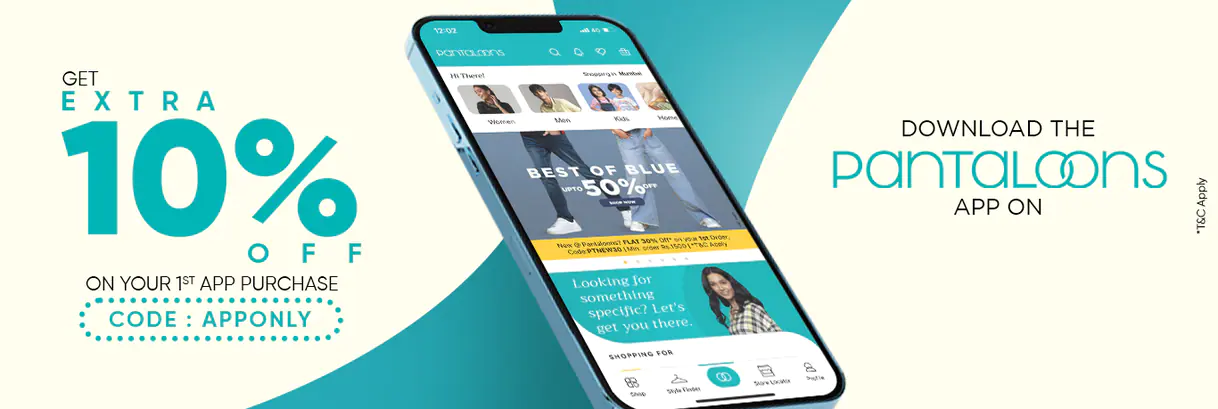
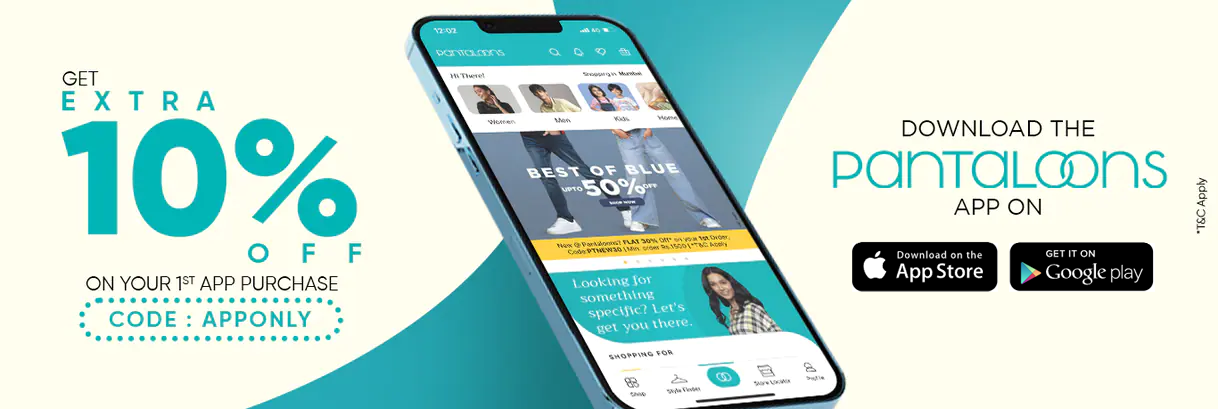
15/07/24

Changed region(s): [[0.6864, 0.5868, 0.9672, 0.7335]]

diff --git a/src/component/giftcard.css b/src/component/giftcard.css
@@ -1,0 +1,58 @@
+.giftcard-content-section{
+    background-image: url("../image/leaf-2.png");
+    background-repeat: no-repeat;
+    background-size: cover;
+    background-position: center;
+    border-radius: 10px;
+}
+.giftcard .giftcard-content-section {
+    /* background: #d2fdff; */
+    padding:  0 100px;
+    display: flex;
+    align-items: center;
+    flex-direction: row-reverse;
+    border-radius: 20px;
+    box-shadow: rgba(0, 0, 0, 0.05) 0px 0px 0px 1px;
+}
+.giftcard .greencard-content img{
+    border-radius: 10px;
+}
+.giftcard .greencard-content h4.heading {
+    font-family: Trirong, serif;
+    font-style: italic;
+    text-transform: capitalize;
+    font-size: 24px;
+    font-weight: 400;
+}
+.giftcard .giftcard-content-section>* {
+    width: 50%;
+}
+.giftcard .giftcard-content-section .greencard-content.one {
+    text-align: center;
+    position: relative;
+    z-index: 1;
+}
+.giftcard .giftcard-content-section .greencard-content{
+    padding: 60px 0;
+}
+.giftcard .giftcard-content-section .greencard-content.two {
+    padding: 60px 80px;
+}
+.giftcard .greencard-content.two a.button {
+    color: #00b0b5;
+    font-size: 14px;
+    letter-spacing: 2.2px;
+}
+.giftcard .greencard-content.one:after {
+    content: '';
+    position: absolute;
+    width: 520px;
+    height: 300px;
+    background: #fff;
+    bottom: 0;
+    left: 50%;
+    top: auto;
+    transform: translateX(-50%);
+    border-radius: 120px 120px 0 0;
+    z-index: -1;
+}

diff --git a/src/component/Footer.js b/src/component/Footer.js
@@ -1,7 +1,12 @@
 import React from "react";
 import "./footer.css";
 import paymentimage from "../image/payment.png";
+import playstore from "../image/google-play.svg"
+import applestore from "../image/apple.svg";
+import { Link } from "react-router-dom";
 const Footer = () => {
+    const palyStoreLink = "https://play.google.com/store/apps/details?id=com.pantaloons&source=footer&pli=1";
+    const appleStoreLink = "https://apps.apple.com/in/app/pantaloons-online-shopping-app/id1599439483?source=footer";
   return (
     <footer className="pt-4 pb-3">
       <div className="container pt-5 pb-5">
@@ -100,6 +105,13 @@ const Footer = () => {
                 </ul>
             </div>
         </div>
+      </div>
+      <div className="dowload-app footer-category pb-3 mb-3">
+      <h4 className="text-uppercase fw-bolder mb-3 text-center">experience pantaloons app</h4>
+      <div className="dowload-image text-center">
+        <Link to={palyStoreLink} target="_blank"><img src={playstore} className="ms-2 me-2" alt="plas-tore"/></Link>
+        <Link to={appleStoreLink} target="_blank"><img src={applestore} className="ms-2 me-2" alt="apple-store"/></Link>
+      </div> 
       </div>
       <div className="footer-bottom pt-3">
         <div className="footer-bottom-content container">

diff --git a/src/component/Greencard.js b/src/component/Greencard.js
@@ -1,0 +1,32 @@
+import React from "react";
+import './greencard.css'
+import greencard from '../image/greencard.png'
+const Greencard = () => {
+  return (
+    <div className="container greencard mt-5 mb-5">
+      <div className="greencard-content-section">
+        <div className="greencard-content one">
+          <h4 className="heading pb-5 mb-0">
+            Get Green Listed with our Greencard <br/>loyalty program
+          </h4>
+          <img src={greencard} className="green-card-image" alt="green-card" />
+        </div>
+        <div className="greencard-content two">
+          <h4 className="heading mb-3">
+            Style your change with India’s <br/> most rewarding program
+          </h4>
+          <p className="description mb-3">
+            Members of the loyalty program will enjoy unique benefits, including
+            special offers, additional discounts, bonus points and customized
+            product information
+          </p>
+          <a href="#" className="button mb-4 text-uppercase fw-bolder text-decoration-none">
+            read now
+          </a>
+        </div>
+      </div>
+    </div>
+  );
+};
+
+export default Greencard;

diff --git a/src/component/Giftcard.js b/src/component/Giftcard.js
@@ -1,0 +1,35 @@
+import React from "react";
+import "./giftcard.css";
+import giftcard from "../image/giftcard.png";
+const Giftcard = () => {
+  const giftCardImage = "gift-card-image";
+  return (
+    <div className="container giftcard mt-5 mb-5">
+      <div className="giftcard-content-section">
+        <div className="greencard-content one">
+          <img src={giftcard} className="green-card-image" alt="green-card" />
+          <h4 className="heading pt-5 mb-0">
+            Pantaloons Gift Card <br />
+            With Our loyalty program
+          </h4>
+        </div>
+        <div className="greencard-content two">
+          <h4 className="heading mb-3">
+            Style your change with India’s <br /> most rewarding program
+          </h4>
+          <p className="description mb-3">
+            Give your loved ones the joy to choose
+          </p>
+          <a
+            href="#"
+            className="button mb-4 text-uppercase fw-bolder text-decoration-none"
+          >
+            explore now
+          </a>
+        </div>
+      </div>
+    </div>
+  );
+};
+
+export default Giftcard;

diff --git a/src/component/cardcollection.css b/src/component/cardcollection.css
@@ -1,9 +1,23 @@
 .card_collection_section{
-    background: url("../image/Desktop-Background.png");
-    background-repeat: no-repeat;
+    /* background: url("../image/Desktop-Background.png"); */
+    /* background-repeat: no-repeat;
     background-size: cover;
-    background-position: center;
+    background-position: center; */
+    background: linear-gradient(90deg, rgb(255, 227, 104) 10%, rgb(255, 111, 108) 52%);
+    background-size: 200% 200%;
+    animation: linear-background 5s ease infinite;
 }
+@keyframes linear-background {
+    0% {
+      background-position: 0% 50%;
+    }
+    50% {
+      background-position: 50% 100%;
+    }
+    100% {
+      background-position: 0% 50%;
+    }
+  }
 .CardSwiperCarousel .card-body p.card-text {
   white-space: nowrap;
   width: -webkit-fill-available;
@@ -35,9 +49,10 @@
     font: italic normal 600 28px Trirong,serif; 
     text-shadow: 1px 1px #ffc20e;
     text-transform: capitalize;
+    color: white;
 }
 .card_collection_section .CardSwiperCarousel .card_heading a{
-    color:#00b0b5;
+    color:#ffffff;
     font-size: 14px;
     letter-spacing: 2.2px;
 }

diff --git a/src/component/greencard.css b/src/component/greencard.css
@@ -1,0 +1,47 @@
+.greencard-content-section {
+    background: #d2fdff;
+    padding:  0 100px;
+    display: flex;
+    align-items: center;
+    border-radius: 20px;
+    box-shadow: rgba(0, 0, 0, 0.05) 0px 0px 0px 1px;
+}
+
+.greencard-content h4.heading {
+    font-family: Trirong, serif;
+    font-style: italic;
+    text-transform: capitalize;
+    font-size: 24px;
+    font-weight: 400;
+}
+.greencard-content-section>* {
+    width: 50%;
+}
+.greencard-content-section .greencard-content.one {
+    text-align: center;
+    position: relative;
+    z-index: 1;
+}
+.greencard-content-section .greencard-content{
+    padding: 60px 0;
+}
+.greencard-content-section .greencard-content.two {
+    padding: 60px 80px;
+}
+.greencard-content.two a.button {
+    color: #00b0b5;
+    font-size: 14px;
+    letter-spacing: 2.2px;
+}
+.greencard-content.one:after {
+    content: '';
+    position: absolute;
+    width: 520px;
+    height: 300px;
+    background: #fff;
+    top: 0;
+    left: 50%;
+    transform: translateX(-50%);
+    border-radius: 0 0 120px 120px;
+    z-index: -1;
+}

diff --git a/src/component/Navbar.js b/src/component/Navbar.js
@@ -9,9 +9,9 @@ export const Navbar = () => {
     <div className="navbar_section">
       <nav class="navbar navbar-expand-lg">
         <div class="container-fluid">
-          <a class="navbar-brand" href="#">
+          <Link class="navbar-brand" to="/">
             <img src={logo} />
-          </a>
+          </Link>
           <button
             class="navbar-toggler"
             type="button"
@@ -77,12 +77,12 @@ export const Navbar = () => {
             </ul>
           </div>
         </div>
-        <div className="account-icon ms-2 me-2">
+        <div className="account-icon ms-3 me-3">
           <Link to="account">
             <FiUser />
           </Link>
         </div>
-        <div className="cart-icon ms-2 me-2">
+        <div className="cart-icon ms-3 me-3">
           <Link to="cart">
             <IoBagHandleOutline />
           </Link>

diff --git a/src/index.css b/src/index.css
@@ -1,16 +1,18 @@
 @import url('https://fonts.googleapis.com/css2?family=Roboto:ital,wght@0,100;0,300;0,400;0,500;0,700;0,900;1,100;1,300;1,400;1,500;1,700;1,900&family=Trirong:ital,wght@0,100;0,200;0,300;0,400;0,500;0,600;0,700;0,800;0,900;1,100;1,200;1,300;1,400;1,500;1,600;1,700;1,800;1,900&display=swap');
-*{
+
+* {
   font-family: 'Proxima Nova';
 }
+
 body {
   margin: 0;
-  font-family: 'proxima-nova',sans-serif;
+  font-family: 'proxima-nova', sans-serif;
   -webkit-font-smoothing: antialiased;
   -moz-osx-font-smoothing: grayscale;
 }
 
 code {
-  font-family: 'proxima-nova',sans-serif;
+  font-family: 'proxima-nova', sans-serif;
 }
 
 @font-face {

diff --git a/src/component/Home.js b/src/component/Home.js
@@ -9,7 +9,8 @@ import Video from './Video'
 import Promobanner from './Promobanner'
 import Support from './Support'
 import Footer from './Footer'
-
+import Giftcard from './Giftcard'
+import Greencard from './Greencard'
 const Home = () => {
   return (
     <div>
@@ -20,9 +21,10 @@ const Home = () => {
       <Grid/>
       <Brand/>
       <Video/>
+      <Giftcard/>
+      <Greencard/>
       <Promobanner/>
       <Support/>
-      <Footer/>
     </div>
   )
 }

diff --git a/src/App.js b/src/App.js
@@ -16,7 +16,7 @@ function App() {
       <BrowserRouter>
         <Navbar />
         <Routes>
-          <Route path="/" element={<Home />} />
+          <Route path="" element={<Home />} />
           <Route path="brand" element={<Brandpage />} />
           <Route path="women" element={<Womenpage />} />
           <Route path="men" element={<Menpage />} />

diff --git a/src/component/Promobanner.js b/src/component/Promobanner.js
@@ -1,8 +1,9 @@
 import React from 'react'
 import promobanner from '../image/promobanner.png'
+import "./promobanner.css";
 const Promobanner = () => {
   return (
-    <div className='container mt-4 mb-4 pt-4 pb-4'>
+    <div className='container mt-0 mb-5  pt-0 pb-0 promobanner'>
         <img src={promobanner} alt="promobanner" />
     </div>
   )

diff --git a/src/component/brand.css b/src/component/brand.css
@@ -11,7 +11,11 @@
 }
 
 .brand .card_heading h4 {
-    font: italic normal 600 28px Trirong, serif;
+    font-family: Trirong, serif;
+    font-style: italic;
+    text-transform: capitalize;
+    font-size: 28px;
+    font-weight: 400;
 }
 
 .brand .card_heading a {
